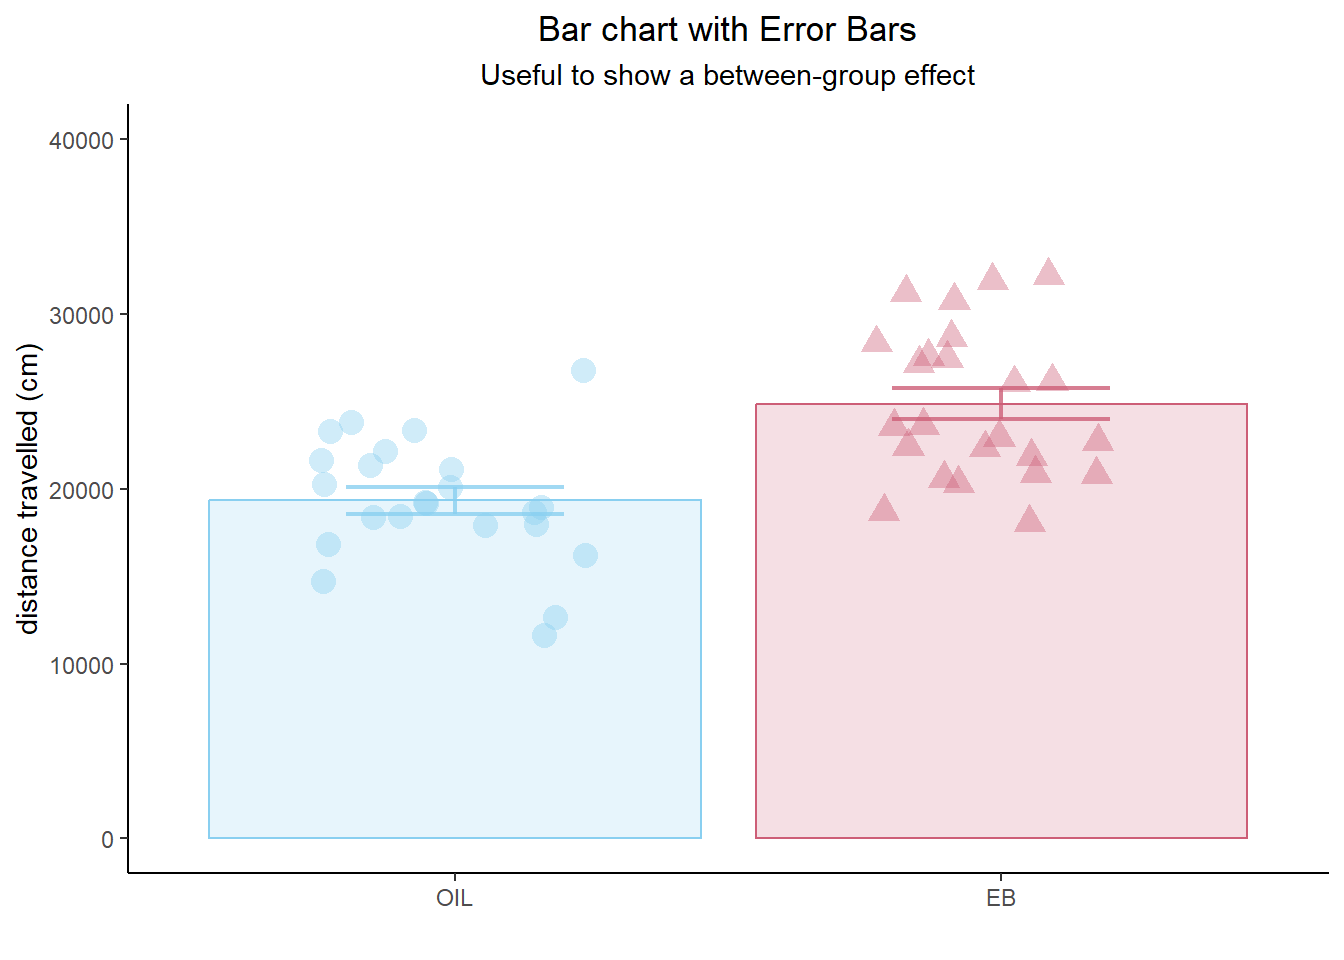
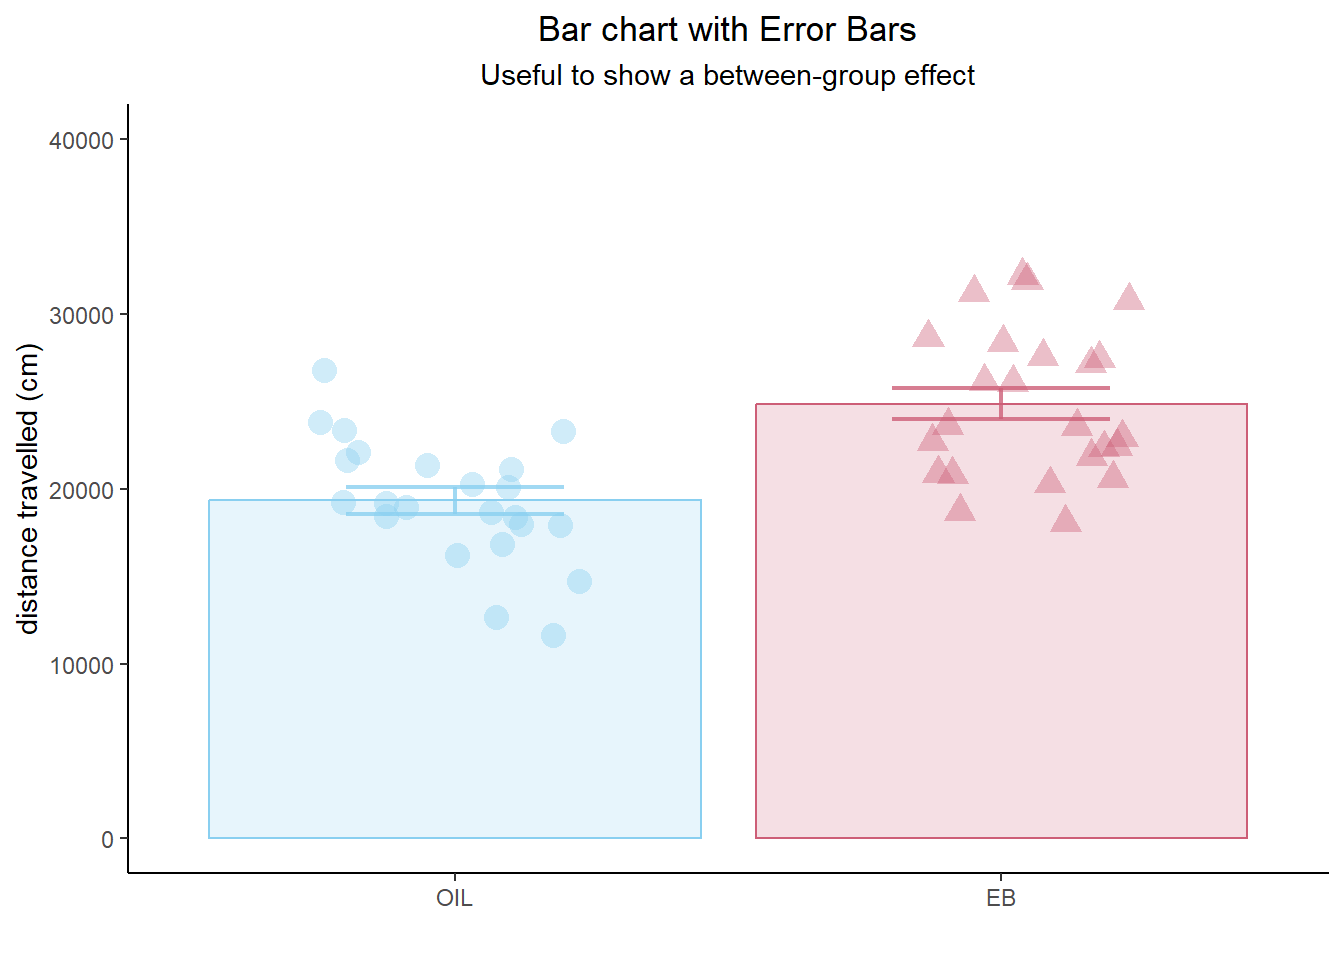
Updates to Rmd
To make it run - Fixed the fact that I had carelessly deleted the CHALhorm to factor bit in the opening chink.

diff --git a/content/post/2023-07-18-Basic-Graphs/index.md b/content/post/2023-07-18-Basic-Graphs/index.md
@@ -9,13 +9,12 @@ output:
 
 
 
-# First thing's first: Load packages
+# Load packages
 
 ```r
 library(tidyverse)
 library(reshape2)
 library(ggpubr)
-library(readr)
 ```
 
 # Get Data: EB Rats (data from my MA thesis - published [here](https://link.springer.com/article/10.1007/s00213-020-05685-8))
@@ -27,31 +26,30 @@ data$PREhorm = factor(data$PREhorm,# change the PREhorm variable to a factor
                       levels = c(0,1), # With two levels, 0 and 1 (ordered)
                       labels = c("OIL","EB")) # And label those levels, the condition names.
 
-data$CHALhorm = factor(data$CHALhorm, # change the PREhorm variable to a factor
-                      levels = c(0,1),
-                      labels = c("OIL","EB"))
+data$CHALhorm = factor(data$CHALhorm,# change the CHALhorm variable to a factor
+                      levels = c(0,1), # With two levels, 0 and 1 (ordered)
+                      labels = c("OIL","EB")) # And label those levels, the condition names.
 ```
 
 # Bar chart with error bars: 
+- A classic visualization used in basic neuroscience papers, yet surprisingly difficult to find information about online. Many people use boxplots instead because they can't figure out how to generate the basic bar graph in R. 
+- A bar chart is a great way to showcase simple between-group effects. The bar chart can also be the foundation for more comprehensive vizualizations (e.g. overlaid with individual data points - see below)
 
 ```r
-a <- as.data.frame(data$ID) # Create temp df
-a$PREhorm <- data$PREhorm # Attach hormone variables
-a$CHALhorm <- data$CHALhorm 
-colnames(a) <- c("ID","PREhorm","CHALhorm") # name them
-
-CHAL <- a
+CHAL <- as.data.frame(data$ID) # Create temp df
+CHAL$PREhorm <- data$PREhorm # Attach hormone variables
+colnames(CHAL) <- c("ID","PREhorm") # name them
 CHAL$distance <- data$CHAL
 
 n <- CHAL %>% # Get info about Input's n
-  group_by(`PREhorm`) %>%
+  group_by(PREhorm) %>%
   summarise(n=n())
 
-means <- CHAL %>% # Get info about Input's mean distance value
+means <- CHAL %>% # Get info about mean distance travelled by each group.
   group_by(PREhorm) %>%
   summarise(mean=mean(distance))
 
-sd <- CHAL %>% # Get sd info
+sd <- CHAL %>% # Get sd info for each group
   group_by(PREhorm) %>%
   summarise(sd=sd(distance))
 
@@ -79,12 +77,15 @@ a <- ggplot(m_means, aes(x=PREhorm,y=value,colour=PREhorm,fill=PREhorm))+ # Crea
   )+
   ylim(0,40000)
 
-a # Check out the result
+a # Check out the result - Bar chart with error bars
 ```
 
 <img src="{{< blogdown/postref >}}index_files/figure-html/unnamed-chunk-3-1.png" width="672" />
 
 # Add individual points
+- It has become the accepted norm in neuroscience to showcase all the individual points over bar charts to better illustrate the spread of the data. 
+- Here, a new "layer" is added to the existing bar chart created above. 
+- The data for the individual points are called from the parent dataframe "data". 
 
 ```r
 a + 
@@ -94,6 +95,9 @@ a +
 <img src="{{< blogdown/postref >}}index_files/figure-html/unnamed-chunk-4-1.png" width="672" />
 
 # Bar Chart with Lines for within-subjects data
+- Bars can also be used as a base layer that can have within-subjects data overlaid. 
+- Here, data from the first (habituation) and the second (induction 1) day of behavioural testing are represented as bars on the x-axis. Individual subjects' data are then overlain using geom_line(). 
+- Including lines to represent individual subjects when showcasing within-subjects data better illustrates the overall nature of changes in behaviour across the group. 
 
 ```r
 lines_data <- data[ ,1:7]
@@ -142,7 +146,8 @@ a + geom_line(data=m_lines_data, aes(x=variable,y=value,group=ID,colour=PREhorm)
 
 <img src="{{< blogdown/postref >}}index_files/figure-html/unnamed-chunk-5-2.png" width="672" />
 
-# Special Request from Crystal
+# 2x2 Design: 1 btw-sub, 1 wi-sub variable
+- Research designs often encompass multiple variables of interest. One way to showcase the nature of two interacting variables would be to plot bar charts with within-subjects lines next to each other to show within-sujects changes between the groups: 
 
 ```r
 a <- data[,1:2]
@@ -197,6 +202,8 @@ ggsave("wi_CHAL.png",b,dpi=300,height=4,width=7)
 ```
 
 # Line chart acrss days to show within subjects data
+- It is considered appropriate to connect means with a line when working within winthin-subjects data.
+    + Conventionally, between-groups data should not be represented with a line. 
 
 ```r
 data2 <- data
@@ -225,7 +232,7 @@ m_se <- melt(se)
 m_means$se <- m_se$value # Bind se values to the means df.
 m_means$group <- c(1,2,3,4,1,2,3,4,1,2,3,4,1,2,3,4)
 
-a <- ggplot(m_means,aes(x=variable,y=value,colour=PREhorm,shape=CHALhorm,group=group))+
+a <- ggplot(m_means,aes(x=variable,y=value,colour=PREhorm,shape=PREhorm,group=group))+
   geom_point(size=5,alpha=0.8)+
   geom_line(size=2,alpha=0.8)+
   scale_colour_manual(values=c("#89CFF0","#CD5E77"))+
@@ -245,6 +252,7 @@ a
 <img src="{{< blogdown/postref >}}index_files/figure-html/unnamed-chunk-7-1.png" width="672" />
 
 # Line chart plus individual points
+- Once the base layer of the line chart across days has been created, individual points or lines could be overlain to show individual subjects behaviour across the days of testing. 
 
 ```r
 data2 <- data 
@@ -284,6 +292,7 @@ a +
 <img src="{{< blogdown/postref >}}index_files/figure-html/unnamed-chunk-9-1.png" width="672" />
 
 # Continuous predictor + Continuous outcome 
+- To show group differences in a linear relationship between two continuous variables, assign the variable that you would consider to be the "predictor" to the x-axis and the variable that you would consider to be the "outcome" to the y-axis.
 
 ```r
 ggplot(data, aes(x=Hab,y=CHAL,colour=PREhorm,shape=PREhorm,fill=PREhorm))+
